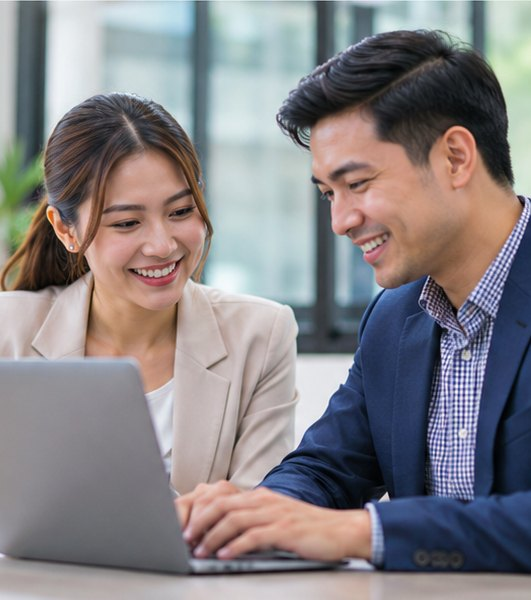
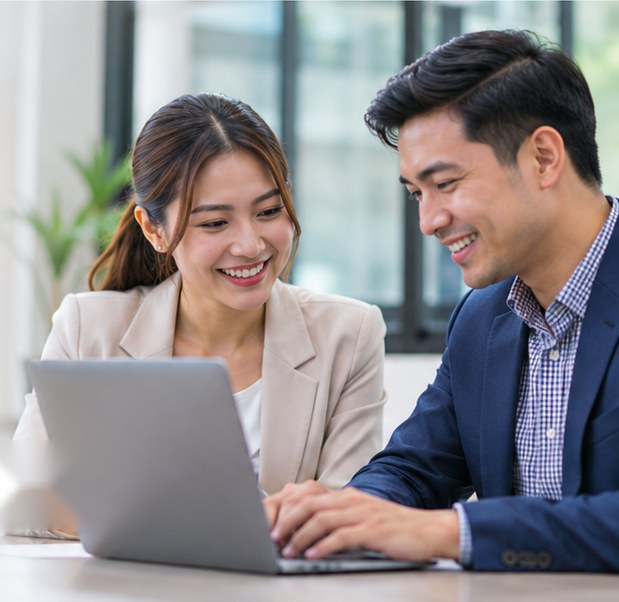
Homepage hero: the full mockup photo at its natural size, as in the mockup
Uses the whole hero photo area from the homepage mockup (plant, window, both people,
laptop and table), with the mockup's printed button remnant removed, shown at its
natural size (no zoom) inside the page frame. It runs from the top of the hero to the
strip below and fades into white on the left behind the headline.

Claude-Session: https://claude.ai/code/session_018i6KhyRKKuaj4sJwSsDdCc

diff --git a/static/css/style.css b/static/css/style.css
@@ -81,15 +81,15 @@ p { margin: 0 0 1em; }
 .nav-toggle[aria-expanded="true"] span:nth-child(3) { transform: translateY(-7px) rotate(-45deg); }
 
 /* ---------- Home hero ---------- */
-.hero { background: linear-gradient(180deg, #fff 0%, #fff 70%, var(--grey) 100%); overflow: hidden; }
-/* Text and photo sit inside the page frame. The photo is shown whole, at its own shape, and fades
-   into the background on its left and bottom edges, as in the homepage mockup. */
-.hero__inner { display: grid; grid-template-columns: minmax(0, 1fr) minmax(0, 531px); gap: 24px; align-items: end; }
-.hero__copy { align-self: center; padding: 48px 0 64px; max-width: 600px; }
-.hero__media { position: relative; padding-top: 32px; }
+.hero { background: #fff; overflow: hidden; }
+/* As in the homepage mockup: the photo sits on the right at its natural size (not zoomed), from the
+   top of the hero down to the strip below, fading softly into white on its left so the headline
+   can overlap it. Everything stays inside the page frame. */
+.hero__inner { display: grid; grid-template-columns: minmax(0, 1fr) min(619px, 56%); align-items: center; }
+.hero__copy { grid-row: 1; grid-column: 1 / 3; position: relative; z-index: 1; max-width: 600px; padding: 48px 0; }
+.hero__media { grid-row: 1; grid-column: 2; position: relative; align-self: stretch; }
 .hero__media img { display: block; width: 100%; height: auto; }
-.hero__media::before { content: ""; position: absolute; top: 32px; right: 0; bottom: 0; left: 0; background: linear-gradient(90deg, #fff 0%, rgba(255,255,255,.7) 12%, rgba(255,255,255,0) 34%), linear-gradient(180deg, #fff 0%, rgba(255,255,255,0) 9%); }
-.hero__media::after { content: ""; position: absolute; left: 0; right: 0; bottom: 0; height: 20%; background: linear-gradient(180deg, rgba(243,245,248,0), var(--grey)); }
+.hero__media::before { content: ""; position: absolute; inset: 0; background: linear-gradient(90deg, #fff 0%, rgba(255,255,255,.85) 9%, rgba(255,255,255,.35) 18%, rgba(255,255,255,0) 30%); }
 .hero__title { font-size: clamp(2.3rem, 4.3vw, 3.45rem); line-height: 1.08; margin-bottom: 20px; }
 .hero__title > span, .hero__title { text-wrap: balance; }
 .hero__lead { font-size: 1.15rem; max-width: 34em; color: var(--text); margin-bottom: 0; }
@@ -362,7 +362,8 @@ legend { padding: 0; margin-bottom: 14px; color: var(--blue-ink); font-weight: 8
   .site-nav ul a[aria-current="page"] { padding-left: 14px; }
   .site-nav__ctas { display: grid; gap: 12px; margin-top: 24px; }
   .site-nav__ctas .btn { display: flex; min-height: 52px; color: #fff; }
-  .hero__inner { grid-template-columns: minmax(0, 1fr) minmax(0, 44%); }
+  .hero__inner { grid-template-columns: minmax(0, 1fr) 58%; }
+  .hero__copy { max-width: 430px; }
   .card-grid--4, .industry-list { grid-template-columns: repeat(2, 1fr); }
   .card-grid--3 { grid-template-columns: repeat(2, 1fr); }
   .steps--4 { grid-template-columns: repeat(2, 1fr); }
@@ -375,11 +376,11 @@ legend { padding: 0; margin-bottom: 14px; color: var(--blue-ink); font-weight: 8
 @media (max-width: 640px) {
   .container { padding: 0 16px; }
   h1 { font-size: 2rem; }
-  .hero__inner { grid-template-columns: 1fr; gap: 0; }
-  .hero__copy { padding: 28px 0 8px; }
-  /* Phones: the whole photo under the text, fading in from white at the top. */
-  .hero__media { padding-top: 0; max-width: 531px; }
-  .hero__media::before { top: 0; bottom: auto; width: auto; right: 0; height: 22%; background: linear-gradient(180deg, #fff 0%, rgba(255,255,255,0) 100%); }
+  .hero__inner { grid-template-columns: 1fr; padding: 0; }
+  .hero__copy { grid-column: 1; grid-row: 1; padding: 28px 16px 8px; }
+  /* Phones: the whole photo under the text, edge to edge, fading in from white at the top. */
+  .hero__media { grid-column: 1; grid-row: 2; }
+  .hero__media::before { background: linear-gradient(180deg, #fff 0%, rgba(255,255,255,0) 18%); }
   .hero__title { font-size: 2.3rem; margin-bottom: 14px; }
   .hero__lead { font-size: 1.04rem; }
   .pathways { grid-template-columns: 1fr; gap: 12px; }

diff --git a/templates/core/home.html b/templates/core/home.html
@@ -9,7 +9,7 @@
       <p class="hero__lead">SD Recruitment connects businesses with the right people and supports candidates in finding opportunities to grow their careers.</p>
     </div>
     <div class="hero__media" aria-hidden="true">
-      <img src="{% static 'images/hero.jpg' %}" alt="" width="531" height="600" fetchpriority="high">
+      <img src="{% static 'images/hero.jpg' %}" alt="" width="619" height="602" fetchpriority="high">
     </div>
   </div>
 </section>
